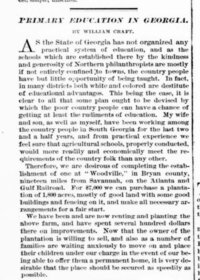
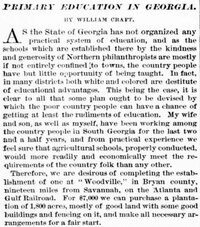
ic-small-changes

diff --git a/html/ivens-craft/ic-reconstruction.html b/html/ivens-craft/ic-reconstruction.html
@@ -148,10 +148,11 @@
 						<p>By 1875, although it had put the family into debt, Woodville seemed to be blossoming. The Crafts built a large schoolhouse attended by upwards of 75 students. At least sixteen families lived on the property, farming cotton, rice, and corn (Craft 1875). Ellen and Brougham taught in the school, seldom receiving compensation. Brougham had earned certificates for teaching from school committees in Georgia and Florida. Though some of the scholars had promised to pay, recalled Brougham, he “never got anything from them, except four red birds” (Anonymous 1878d).</p>
 	
 						<span class="center vertical">
-							<img loading="lazy" class="illustration" width="624" height="799" src="/img/ivens-craft/liv_028065_0001_deriv-980px.jpg" srcset="/img/ivens-craft/liv_028065_0001_deriv-200px.jpg 200w, /img/ivens-craft/liv_028065_0001_deriv-312px.jpg 312w, /img/ivens-craft/liv_028065_0001_deriv-400px.jpg 400w, /img/ivens-craft/liv_028065_0001_deriv-444px.jpg 444w, /img/ivens-craft/liv_028065_0001_deriv-490px.jpg 490w, /img/ivens-craft/liv_028065_0001_deriv-624px.jpg 624w, /img/ivens-craft/liv_028065_0001_deriv-888px.jpg 888w, /img/ivens-craft/liv_028065_0001_deriv-980px.jpg 980w" sizes="(min-width: 992px) calc(700 * .7), (min-width: 768px) calc(634 * .7), (min-width: 480px) calc(.7 * (100vw - 34px)), calc(100vw - 34px)" alt="Portrait of a man in a suit looking directly at the camera." />
+							<img loading="lazy" class="illustration" width="624" height="878" src="/img/ivens-craft/liv_028052_0001_deriv-980px.jpg" srcset="/img/ivens-craft/liv_028052_0001_deriv-200px.jpg 200w, /img/ivens-craft/liv_028052_0001_deriv-312px.jpg 312w, /img/ivens-craft/liv_028052_0001_deriv-400px.jpg 400w, /img/ivens-craft/liv_028052_0001_deriv-444px.jpg 444w, /img/ivens-craft/liv_028052_0001_deriv-490px.jpg 490w, /img/ivens-craft/liv_028052_0001_deriv-624px.jpg 624w, /img/ivens-craft/liv_028052_0001_deriv-888px.jpg 888w, /img/ivens-craft/liv_028052_0001_deriv-980px.jpg 980w" sizes="(min-width: 992px) calc(700 * .7), (min-width: 768px) calc(634 * .7), (min-width: 480px) calc(.7 * (100vw - 34px)), calc(100vw - 34px)" alt="Newspaper article detailing William Craft's ideas about primary education." />
 							</span>
-								
-							<p class="caption-text">Anonymous, “<a aria-label="External Link" href="https://lcdl.library.cofc.edu/lcdl/catalog/lcdl:39896">Charles P. Craft Portrait</a>” (Photograph, [c.1860-1938]), AMN 1102, Avery Research Center, Charleston, United States. Courtesy of Avery Research Center for African American History and Culture, College of Charleston Libraries. All rights reserved. This is one of 7 images published by this project, all of which exhibit the same material characteristics due to coming from a single album held by the Avery Research Center. This photo of Charles Estlin Philips Craft, William Ivens' eldest brother and the firstborn of the Craft children, as a young man likely depicts him as he looked when he worked with his brothers for the Post Office Rail Service.</p>
+							
+							<p class="caption-text">William Craft, “’<a aria-label="External Link" href="https://archive.org/details/sim_new-outlook_1873-07-30_8_5/page/92/mode/2up?q=%22william+craft%22">Primary Education in Georgia</a>’” <em>The Christian Union</em> 8, no. 5 (30 July 1873): 92, Internet Archive. No known restrictions on publication. William Craft penned this article to not only make known his hopes for the Woodville school, but also likely to drum up support, financial and otherwise, for the endeavour.</p>
+
 	
 						<p>The Craft family also became involved in Reconstruction politics, joining the Republican Party in Georgia. William Craft, in 1873, applied for the office of Minister to Liberia, “with good prospects” the <em>Augusta Chronicle</em> reported (Anonymous 1873). The next year, he ran for state Senate in Georgia as a Republican (Anonymous 1874a). Both campaigns proved unsuccessful. However, in 1876, William represented Bryan County at the Georgia Republican State Convention. There, he was elected as an alternate delegate to the Republican National Convention (Blackett 1986, 129; Anonymous 1876a). Politics was a family affair. In Savannah, William Ivens’ older brother, Charles, was president of the Union Coterie club (Craft 1876).</p>
 					</section>

diff --git a/html/ivens-craft/ic-losing_finding.html b/html/ivens-craft/ic-losing_finding.html
@@ -116,6 +116,12 @@
 
 						<p>A lack of paper trail makes it difficult to determine whether William Ivens ever joined his family at their home in Georgia. However, one piece of evidence hints that he spent some time in Savannah in 1876. In a letter written later in his life, William Ivens mentions that he was “suffering from my old complaint, rheumatism, superinduced by an attack of Yellow Fever I contracted in 1876 in America” (Craft 1882d). It is likely that William Ivens caught the disease when it erupted viciously in Savannah in August of 1876, killing upwards of one thousand people, infecting thousands more, and forcing even more to flee the city (Georgia Historical Society n.d.).</p>
 
+						<span class="center vertical">
+							<img loading="lazy" class="illustration" width="624" height="799" src="/img/ivens-craft/liv_028065_0001_deriv-980px.jpg" srcset="/img/ivens-craft/liv_028065_0001_deriv-200px.jpg 200w, /img/ivens-craft/liv_028065_0001_deriv-312px.jpg 312w, /img/ivens-craft/liv_028065_0001_deriv-400px.jpg 400w, /img/ivens-craft/liv_028065_0001_deriv-444px.jpg 444w, /img/ivens-craft/liv_028065_0001_deriv-490px.jpg 490w, /img/ivens-craft/liv_028065_0001_deriv-624px.jpg 624w, /img/ivens-craft/liv_028065_0001_deriv-888px.jpg 888w, /img/ivens-craft/liv_028065_0001_deriv-980px.jpg 980w" sizes="(min-width: 992px) calc(700 * .7), (min-width: 768px) calc(634 * .7), (min-width: 480px) calc(.7 * (100vw - 34px)), calc(100vw - 34px)" alt="Portrait of a man in a suit looking directly at the camera." />
+							</span>
+								
+							<p class="caption-text">Anonymous, “<a aria-label="External Link" href="https://lcdl.library.cofc.edu/lcdl/catalog/lcdl:39896">Charles P. Craft Portrait</a>” (Photograph, [c.1860-1938]), AMN 1102, Avery Research Center, Charleston, United States. Courtesy of Avery Research Center for African American History and Culture, College of Charleston Libraries. All rights reserved. This is one of 7 images published by this project, all of which exhibit the same material characteristics due to coming from a single album held by the Avery Research Center. This photo of Charles Estlin Philips Craft, William Ivens' eldest brother and the firstborn of the Craft children, as a young man likely depicts him as he looked when he worked with his brothers for the Post Office Rail Service.</p>
+
 						<p>By 1877, the recovering William Ivens had made his way to Florida, where he was reunited with his brother, Charles. The Post Office Rail Services employed William Ivens and Charles in 1877, 1878, and 1879, and they worked as Route Agents between Savannah, Georgia, and Live Oak, Florida, and then later between Savannah and Jacksonville. The brothers made a salary between $900 and $1,000 each year (approximately $26,000 to $29,000 in 2024) (US Department of the Interior 1877, 422; 1879, 33).</p>
 
 						<span class="center vertical">

diff --git a/html/ivens-craft/ic-new_dreams.html b/html/ivens-craft/ic-new_dreams.html
@@ -2,7 +2,7 @@
 <html lang="en">
 	<head>
 		<meta charset="UTF-8"/>
-		<title>Returning to a New Life in the American South | One More Voice</title><!-- Change -->
+		<title> New Dreams for an Old Home | One More Voice</title><!-- Change -->
 		<meta name="description" content="Explains why William and Ellen Craft decided to return to their home country with all but two of their children after the U.S. Civil War." /><!-- Change -->
 		<meta name="viewport" content="width=device-width, initial-scale=1.0"/>
 		<meta name="robots" content="index, follow"/>
@@ -42,7 +42,7 @@
 					<li id="level-1"><a href="/">Home</a></li>
 					<li id="level-2"><a href="/html/materials.html">Historical Materials</a></li>
 					<li id="level-3"><a href="/html/ivens-craft/ic-home.html">William Ivens Craft and the Victorian Atlantic World</a></li>
-					<li id="level-4">Returning to a New Life in the American South</li><!-- Change -->
+					<li id="level-4">New Dreams for an Old Home</li><!-- Change -->
 				</ul>
 			</nav>
 			<div class="nav-container" data-include="header">
@@ -61,7 +61,7 @@
 			<div id="overlay-menu" class="overlay" data-include="overlay"></div>
 		</header>
 
-		<main id="main" aria-labelledby="returning-south"><!-- Change -->
+		<main id="main" aria-labelledby="new-dreams"><!-- Change -->
 			<section class="page-details horizontal">
 				<figure class="image-wrapper">
 					<!-- img sizes calculated using https://ausi.github.io/respimagelint/ -->
@@ -76,7 +76,7 @@
 
 				<div>
 					<span>
-						<h2 id="returning-south">Returning to a New Life in the American South</h2><!-- Change -->
+						<h2 id="new-dreams">New Dreams for an Old Home</h2><!-- Change -->
 						<ul class="publication-details">
 							<li><span>Date (publication and updates):</span> <strong>2024</strong></li>
 						</ul>
@@ -165,7 +165,7 @@
 					<aside class="credits" aria-labelledby="citation">
 						<h3 id="citation">Page Citation</h3>
 
-						<p><strong>Cite (MLA):</strong> McCaffrey, Hope. “Returning to a New Life in the American South” (2024). “William Ivens Craft and the Transatlantic Victorian World,” <em>One More Voice</em>, solidarity edition, 2022-24, <a href="/html/ivens-craft/ic-returning_south.html">https://onemorevoice.org/html/ivens-craft/ic-returning_south.html</a>.</p><!-- Change -->
+						<p><strong>Cite (MLA):</strong> McCaffrey, Hope. “New Dreams for Old Home” (2024). “William Ivens Craft and the Transatlantic Victorian World,” <em>One More Voice</em>, solidarity edition, 2022-24, <a href="/html/ivens-craft/ic-new_dreams.html">https://onemorevoice.org/html/ivens-craft/ic-new_dreams.html</a>.</p><!-- Change -->
 					
 						<p><strong>Rights:</strong> <a aria-label="External Link" href="https://creativecommons.org/licenses/by/4.0/">Creative Commons Attribution 4.0 International</a></p>
 

diff --git a/html/ivens-craft/ic-home.html b/html/ivens-craft/ic-home.html
@@ -131,13 +131,13 @@
 					</div>
 
 					<div class="section-container"><!-- for pages of your site; repeat as needed-->
-						<a href="/html/ivens-craft/ic-returning_south.html"><!--Change-->
+						<a href="/html/ivens-craft/ic-new_dreams.html"><!--Change-->
 							<div class="section-image">
 								<img width="504" height="403" style="object-position: 50% 35%;" src="/img/ivens-craft/tiles/liv_028134_0001_deriv-824px.jpg" srcset="/img/ivens-craft/tiles/liv_028134_0001_deriv-824px.jpg 824w, /img/ivens-craft/tiles/liv_028134_0001_deriv-660px.jpg 660w, /img/ivens-craft/tiles/liv_028134_0001_deriv-582px.jpg 582w, /img/ivens-craft/tiles/liv_028134_0001_deriv-550px.jpg 550w, /img/ivens-craft/tiles/liv_028134_0001_deriv-522px.jpg 522w, /img/ivens-craft/tiles/liv_028134_0001_deriv-504px.jpg 504w, /img/ivens-craft/tiles/liv_028134_0001_deriv-476px.jpg 476w, /img/ivens-craft/tiles/liv_028134_0001_deriv-412px.jpg 412w, /img/ivens-craft/tiles/liv_028134_0001_deriv-330px.jpg 330w, /img/ivens-craft/tiles/liv_028134_0001_deriv-291px.jpg 291w, /img/ivens-craft/tiles/liv_028134_0001_deriv-275px.jpg 275w, /img/ivens-craft/tiles/liv_028134_0001_deriv-252px.jpg 252w" sizes="(min-width: 1600px) 318px, (min-width: 1000px) calc(31.9vw - 55px), (min-width: 780px) 287px, calc(100vw - 68px)" alt="A group of people gather around a table as a soldier reads a large piece of paper by torchlight." /><!--Change-->
 								<div class="image-overlay"></div>
 							</div>
-							<div aria-labelledby="returning-south">
-								<h4 id="returning-south">Returning to a New Life in the American South</h4><!--Change-->
+							<div aria-labelledby="new-dreams">
+								<h4 id="new-dreams">New Dreams for an Old Home</h4><!--Change-->
 								<p></p><!--Change-->
 							</div>
 						</a>
